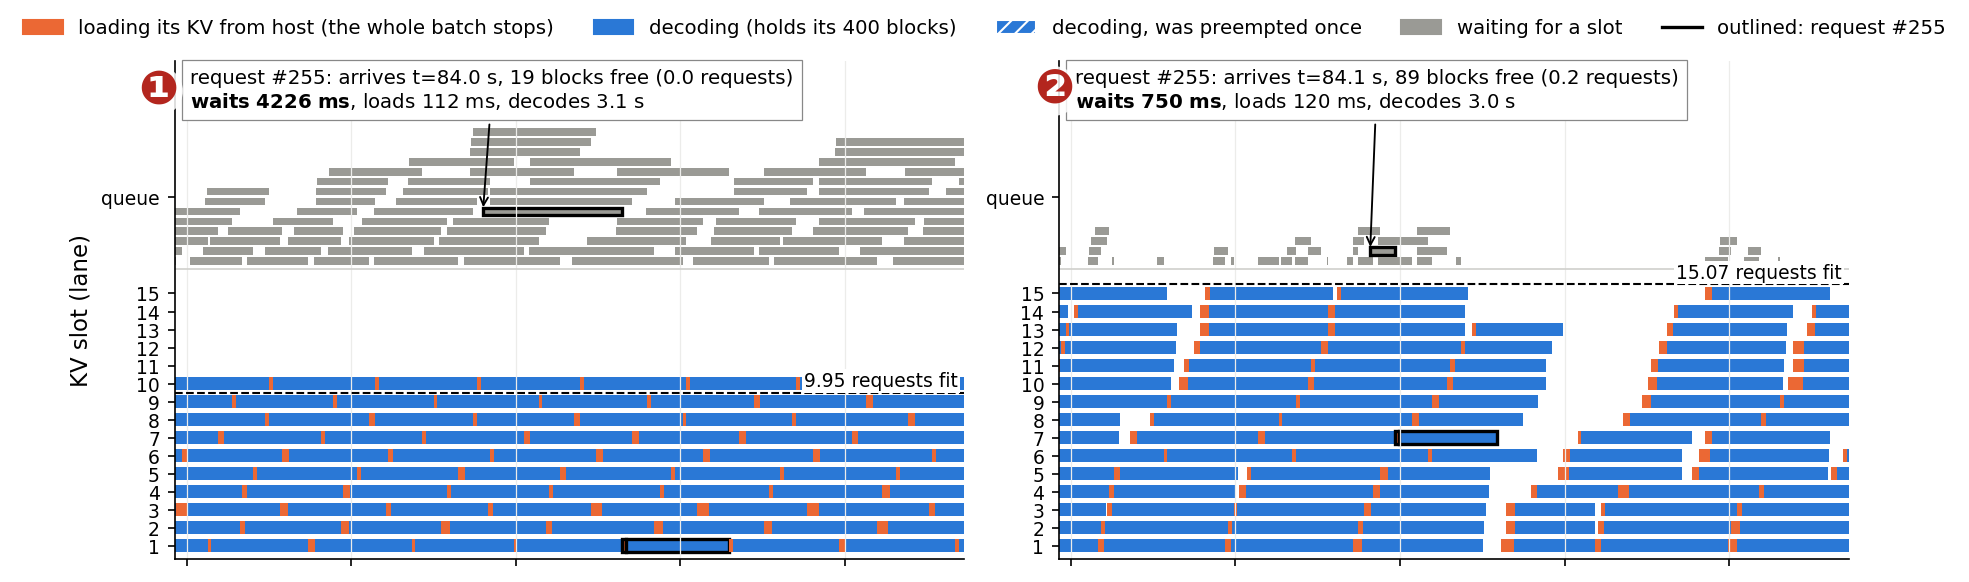
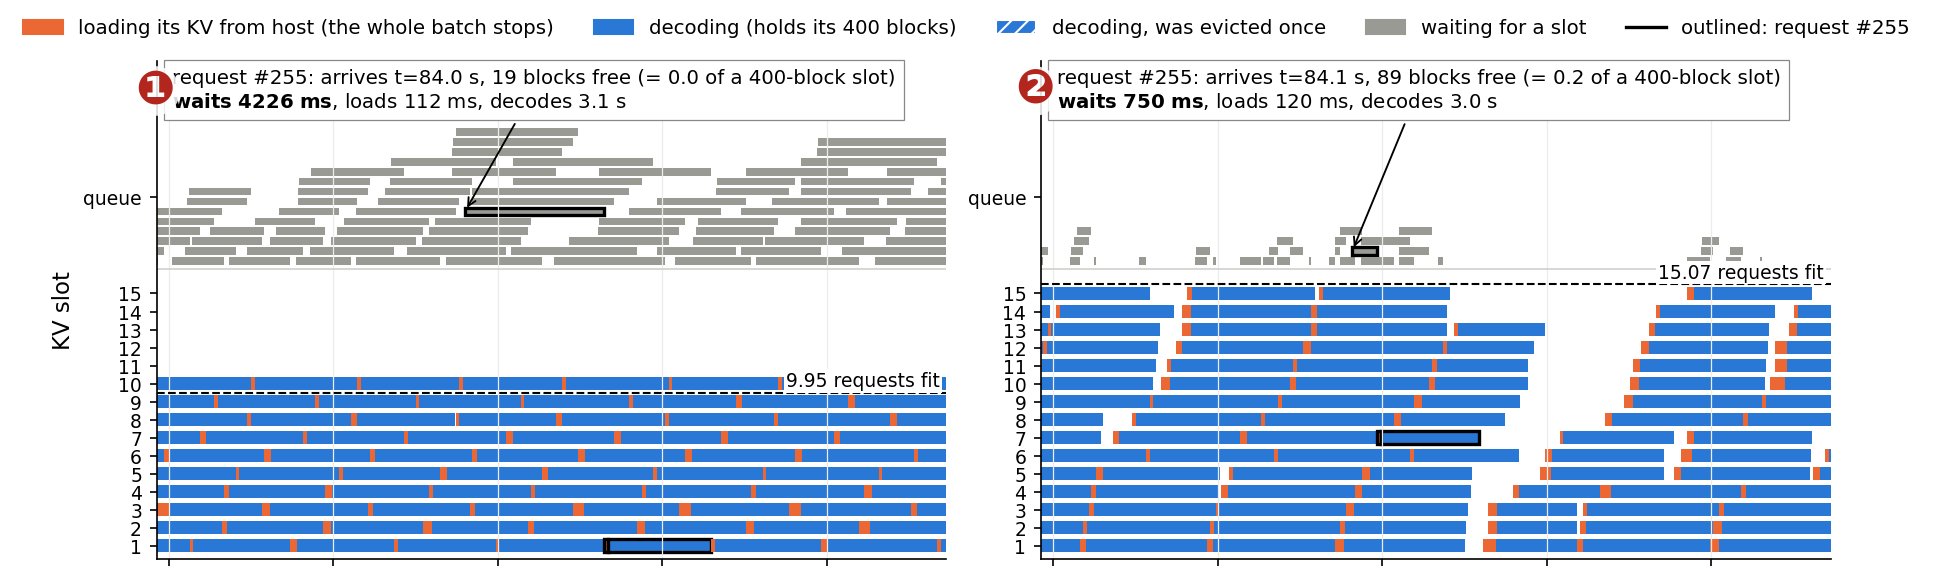
Timeline figure: 'KV slot' axis, 'evicted' (the report's term), free blocks as a fraction of a 400-block slot

diff --git a/scripts/plots/plot_kv_timeline.py b/scripts/plots/plot_kv_timeline.py
@@ -167,7 +167,7 @@ def main():
         a.set_yticks(list(range(ymax_lane)) + [q0 + (max(1, nq) - 1) * 0.275])
         a.set_yticklabels([str(i + 1) for i in range(ymax_lane)] + ["queue"], fontsize=9)
         if j == 0:
-            a.set_ylabel("KV slot (lane)")
+            a.set_ylabel("KV slot")
         a.text(0.01, 0.985, "(a) the same requests packed into the KV slots", transform=a.transAxes,
                fontsize=8.5, va="top")
         # follow annotation
@@ -176,7 +176,7 @@ def main():
             wait = fr["s"] - fr["a"]
             free_req = fr["free_arr"] / REQ_BLOCKS
             txt = (f"request #{args.follow}: arrives t={fr['a']:.1f} s, "
-                   f"{fr['free_arr']} blocks free ({free_req:.1f} requests)\n"
+                   f"{fr['free_arr']} blocks free (= {free_req:.1f} of a 400-block slot)\n"
                    r"$\bf{waits\ " + f"{wait * 1000:.0f}" + r"\ ms}$" + f", loads {1000 * (fr['f'] - fr['s']):.0f} ms, "
                    f"decodes {fr['e'] - fr['f']:.1f} s")
             ytxt = ln[args.follow] if wait < 0.02 else q0 + qlane.get(args.follow, 0) * 0.55
@@ -226,7 +226,7 @@ def main():
                    bbox_to_anchor=(0.5, y1 + 0.003), bbox_transform=fig.transFigure)
     row_legend(1, [Patch(color=C_LOAD, label="loading its KV from host (the whole batch stops)"),
                    Patch(color=C_DEC, label="decoding (holds its 400 blocks)"),
-                   Patch(fc=C_DEC, hatch="///", ec="white", label="decoding, was preempted once"),
+                   Patch(fc=C_DEC, hatch="///", ec="white", label="decoding, was evicted once"),
                    Patch(color=C_WAIT, label="waiting for a slot"),
                    Line2D([], [], color="black", lw=1.6, label=f"outlined: request #{args.follow}")], 5)
     row_legend(2, [Patch(color=C_WAIT, alpha=0.8, label="requests waiting for a slot"),
